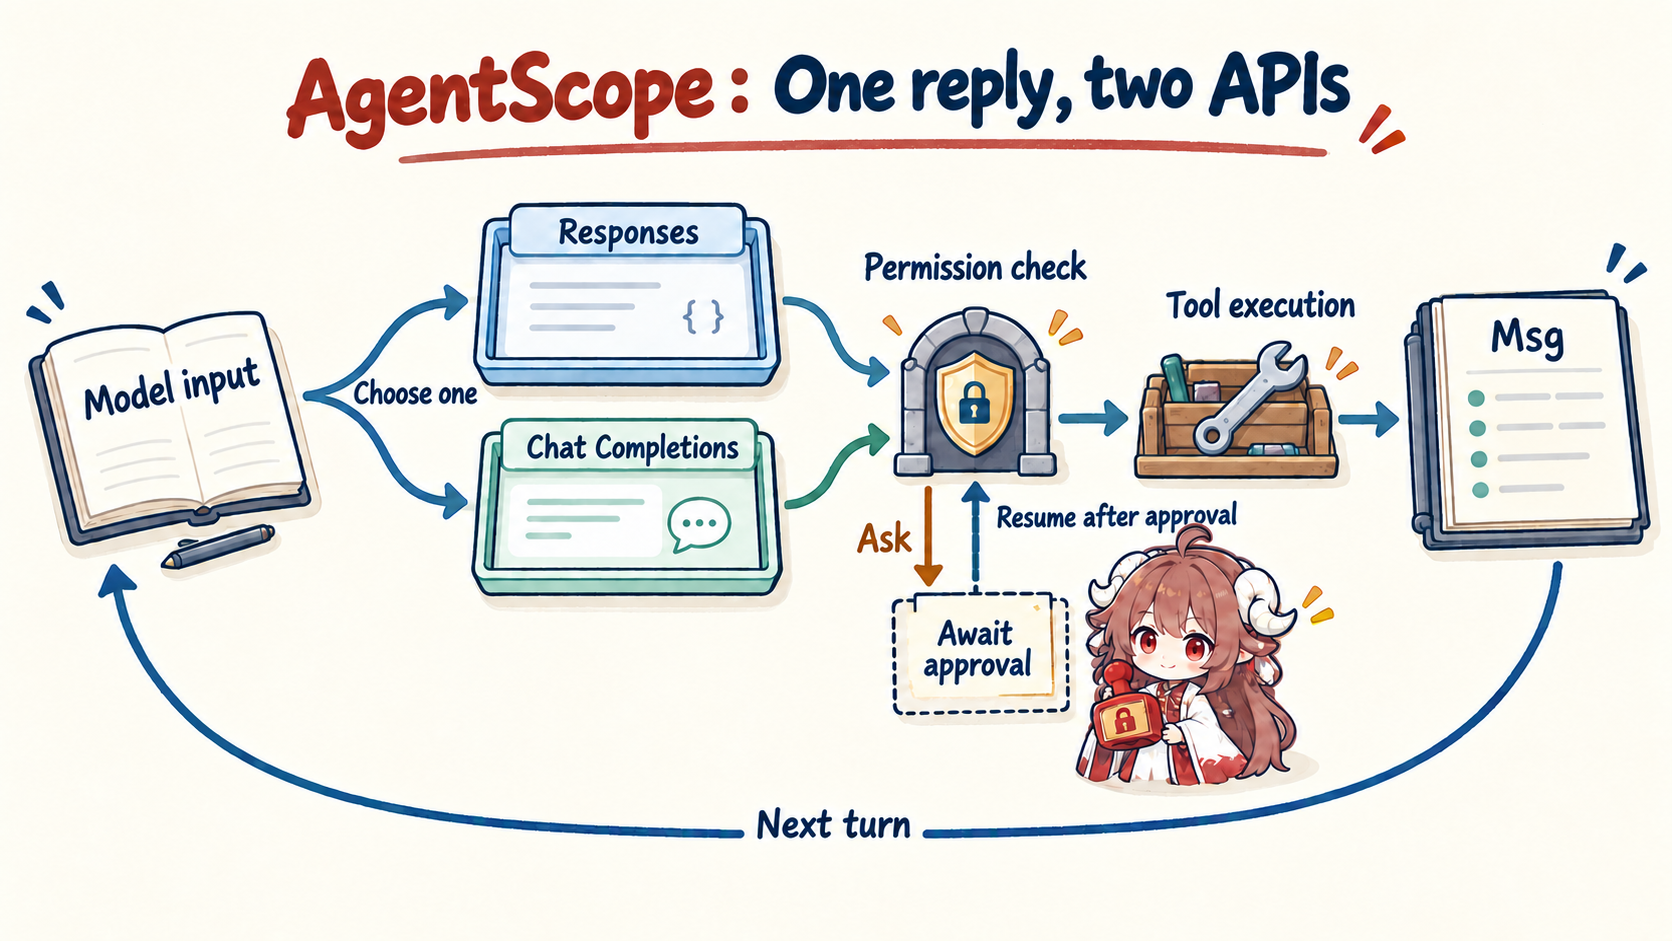
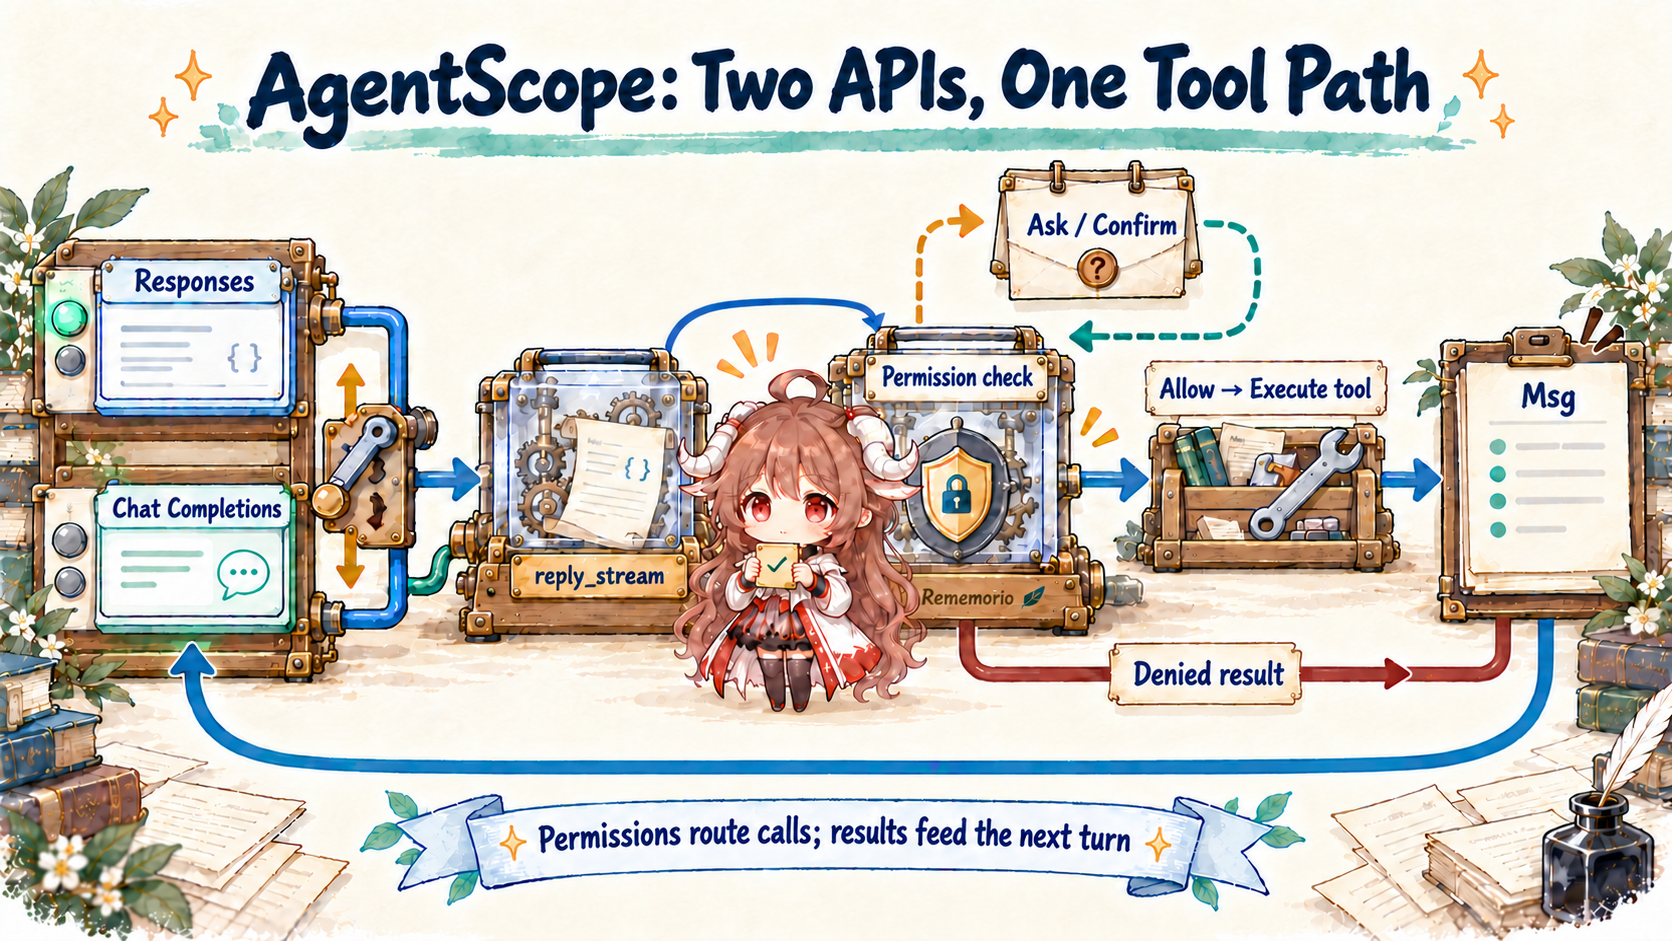
Redraw AgentScope tool path in workshop style

diff --git a/agent-framework/en/agentscope-runtime/index.html b/agent-framework/en/agentscope-runtime/index.html
@@ -15,7 +15,7 @@
       content="Follow AgentScope replies through events, permissions, and Responses adapters, then trace member assignments in TeamPipeline and submission and review in SOP."
     />
     <meta property="og:type" content="article" />
-    <meta property="og:image" content="../assets/agentscope-runtime-overview.png" />
+    <meta property="og:image" content="../assets/agentscope-runtime-overview.png?v=20261023" />
     <link rel="canonical" href="https://rememorio.github.io/blog/agent-framework/en/agentscope-runtime/" />
     <link rel="alternate" hreflang="zh-CN" href="https://rememorio.github.io/blog/agent-framework/zh/agentscope-runtime/" />
     <link rel="alternate" hreflang="en" href="https://rememorio.github.io/blog/agent-framework/en/agentscope-runtime/" />
@@ -126,10 +126,10 @@
             </div>
             <figure class="hero-image">
               <img
-                src="../assets/agentscope-runtime-overview.png"
-                alt="AgentScope tool path: choose Responses or Chat Completions, check permissions, optionally await approval, execute tools, and write results into Msg for the next turn"
+                src="../assets/agentscope-runtime-overview.png?v=20261023"
+                alt="AgentScope tool path: choose Responses or Chat Completions; permissions allow execution, request confirmation, or send a denied result directly to Msg for the next turn"
               />
-              <figcaption>This focus map follows a proposed tool call: the API adapters are alternatives and approval is conditional. The prose covers final answers without tools, denied calls, and external-execution waits.</figcaption>
+              <figcaption>This focus map follows a proposed tool call: the API adapters are alternatives and approval is conditional. The prose covers final answers without tools and external-execution waits.</figcaption>
             </figure>
           </section>
 

diff --git a/agent-framework/zh/agentscope-runtime/index.html b/agent-framework/zh/agentscope-runtime/index.html
@@ -15,7 +15,7 @@
       content="沿 AgentScope 的回复主线看事件、权限与 Responses 适配，再看 TeamPipeline 如何分派成员任务、SOP 如何提交和审核。"
     />
     <meta property="og:type" content="article" />
-    <meta property="og:image" content="../assets/agentscope-runtime-overview.png" />
+    <meta property="og:image" content="../assets/agentscope-runtime-overview.png?v=20261023" />
     <link rel="canonical" href="https://rememorio.github.io/blog/agent-framework/zh/agentscope-runtime/" />
     <link rel="alternate" hreflang="zh-CN" href="https://rememorio.github.io/blog/agent-framework/zh/agentscope-runtime/" />
     <link rel="alternate" hreflang="en" href="https://rememorio.github.io/blog/agent-framework/en/agentscope-runtime/" />
@@ -126,10 +126,10 @@
             </div>
             <figure class="hero-image">
               <img
-                src="../assets/agentscope-runtime-overview.png"
-                alt="AgentScope 回复中的工具路径：模型输入选择 Responses 或 Chat Completions，经权限检查后执行工具；需要确认时暂停，结果写入 Msg 后进入下一轮"
+                src="../assets/agentscope-runtime-overview.png?v=20261023"
+                alt="AgentScope 工具路径：Responses 与 Chat Completions 二选一，权限允许后执行，询问时等待确认，拒绝结果直接进入 Msg，再供下一轮读取"
               />
-              <figcaption>图中聚焦提出工具调用后的路径：两个 API 适配器二选一，确认只在权限决定需要时发生；无工具的最终回答、拒绝与外部执行等待由正文展开。</figcaption>
+              <figcaption>图中聚焦提出工具调用后的路径：两个 API 适配器二选一，确认只在权限决定需要时发生；无工具的最终回答与外部执行等待由正文展开。</figcaption>
             </figure>
           </section>
 

diff --git a/zh/index.html b/zh/index.html
@@ -581,7 +581,7 @@
         </a>
           <a class="post-card" href="../agent-framework/zh/agentscope-runtime/">
           <span class="post-thumb" aria-hidden="true">
-            <img loading="lazy" decoding="async" width="1672" height="941" src="../agent-framework/zh/assets/agentscope-runtime-overview.png" alt="AgentScope 回复中的工具路径：模型输入选择 Responses 或 Chat Completions，经权限检查后执行工具；需要确认时暂停，结果写入 Msg 后进入下一轮" />
+            <img loading="lazy" decoding="async" width="1672" height="941" src="../agent-framework/zh/assets/agentscope-runtime-overview.png?v=20261023" alt="AgentScope 工具路径：Responses 与 Chat Completions 二选一，权限允许后执行，询问时等待确认，拒绝结果直接进入 Msg，再供下一轮读取" />
           </span>
           <span>
             <span class="tag">Agent 框架源码阅读 · 第五篇</span>

diff --git a/en/index.html b/en/index.html
@@ -582,7 +582,7 @@
         </a>
           <a class="post-card" href="../agent-framework/en/agentscope-runtime/">
           <span class="post-thumb" aria-hidden="true">
-            <img loading="lazy" decoding="async" width="1672" height="941" src="../agent-framework/en/assets/agentscope-runtime-overview.png" alt="AgentScope tool path: choose Responses or Chat Completions, check permissions, optionally await approval, execute tools, and write results into Msg for the next turn" />
+            <img loading="lazy" decoding="async" width="1672" height="941" src="../agent-framework/en/assets/agentscope-runtime-overview.png?v=20261023" alt="AgentScope tool path: choose Responses or Chat Completions; permissions allow execution, request confirmation, or send a denied result directly to Msg for the next turn" />
           </span>
           <span>
             <span class="tag">Agent Framework Source Notes · Part 5</span>

diff --git a/agent-framework/zh/index.html b/agent-framework/zh/index.html
@@ -283,7 +283,7 @@
         </a>
         <a class="post-card" href="./agentscope-runtime/">
           <span class="post-thumb" aria-hidden="true">
-            <img src="assets/agentscope-runtime-overview.png" alt="AgentScope 回复中的工具路径：模型输入选择 Responses 或 Chat Completions，经权限检查后执行工具；需要确认时暂停，结果写入 Msg 后进入下一轮" />
+            <img src="assets/agentscope-runtime-overview.png?v=20261023" alt="AgentScope 工具路径：Responses 与 Chat Completions 二选一，权限允许后执行，询问时等待确认，拒绝结果直接进入 Msg，再供下一轮读取" />
           </span>
           <span>
             <span class="tag">源码阅读 · 第五篇</span>

diff --git a/agent-framework/en/index.html b/agent-framework/en/index.html
@@ -283,7 +283,7 @@
         </a>
         <a class="post-card" href="./agentscope-runtime/">
           <span class="post-thumb" aria-hidden="true">
-            <img src="assets/agentscope-runtime-overview.png" alt="AgentScope tool path: choose Responses or Chat Completions, check permissions, optionally await approval, execute tools, and write results into Msg for the next turn" />
+            <img src="assets/agentscope-runtime-overview.png?v=20261023" alt="AgentScope tool path: choose Responses or Chat Completions; permissions allow execution, request confirmation, or send a denied result directly to Msg for the next turn" />
           </span>
           <span>
             <span class="tag">Source Notes · Part 5</span>
